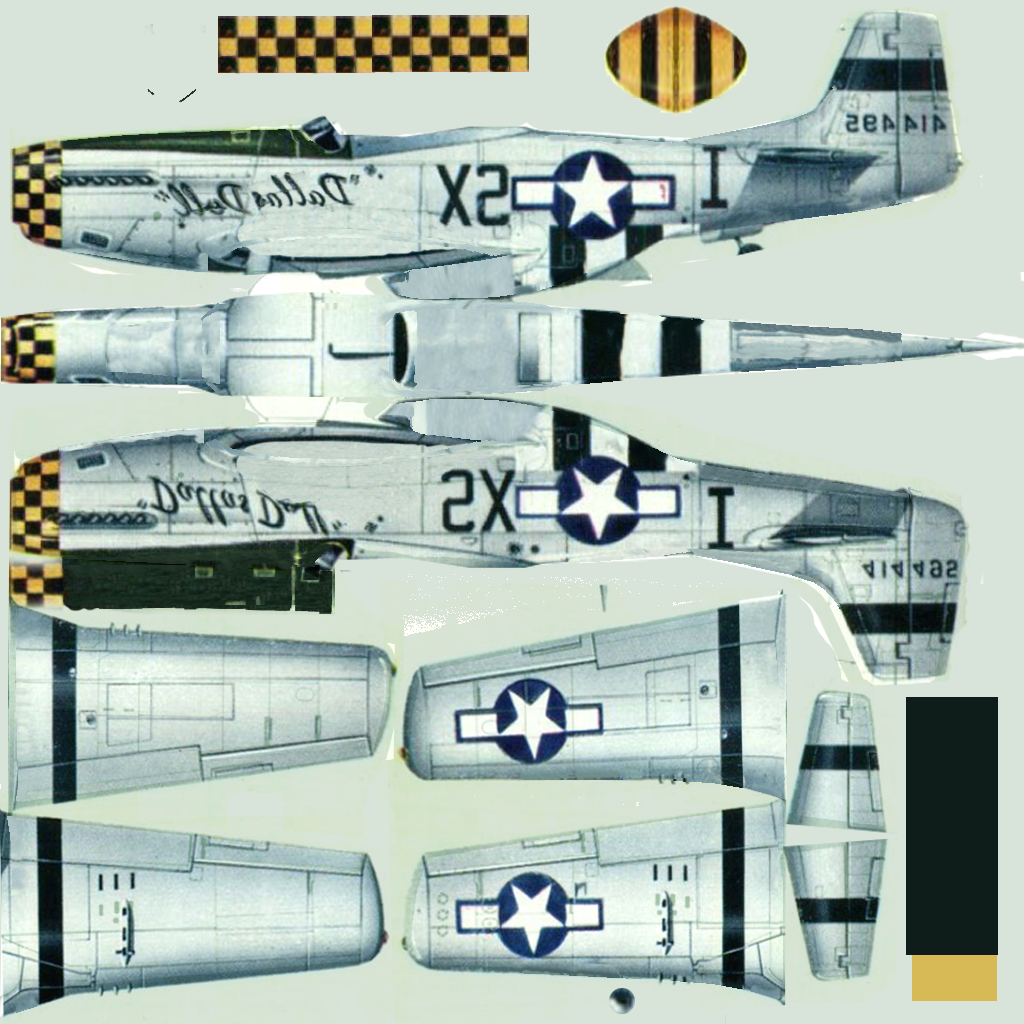
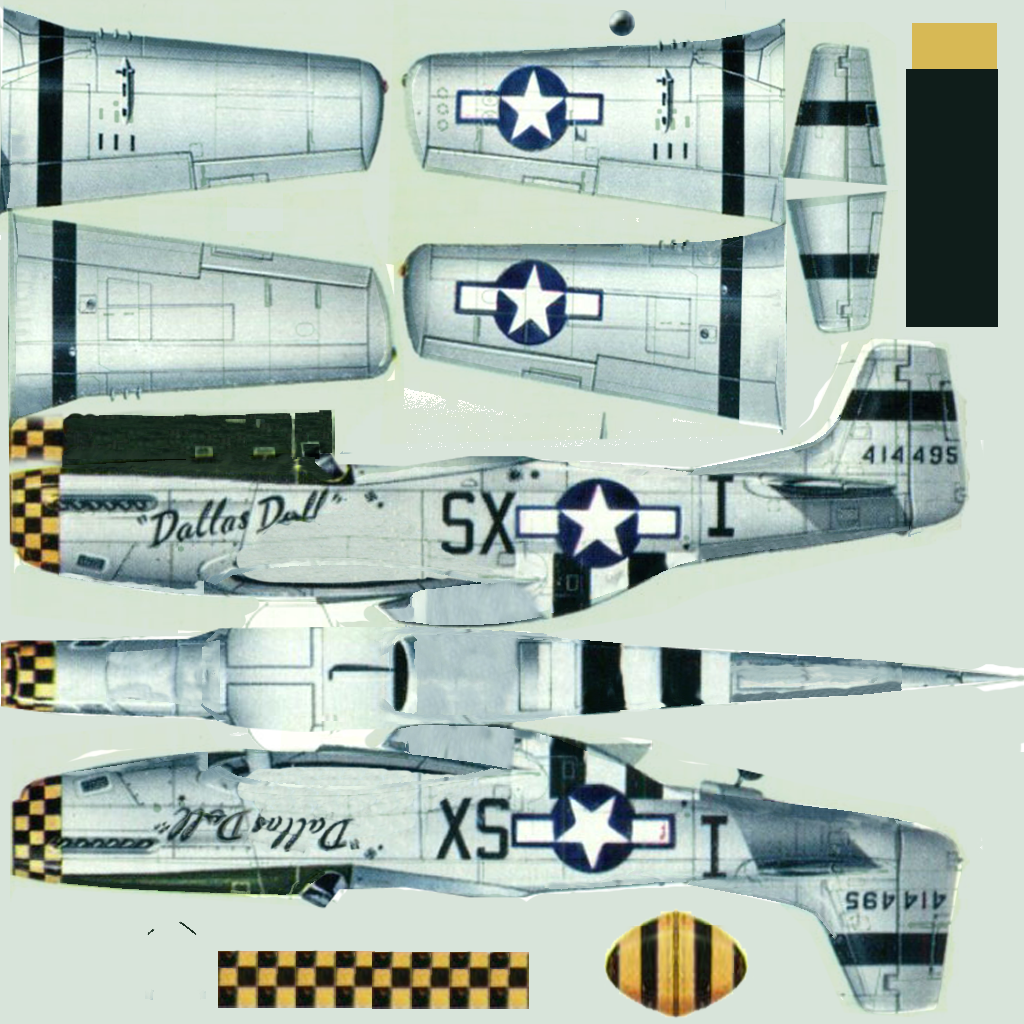
Load PNGs inverted
OpenGL's coordinate system is inverse compared to PNGs. That's why I'd had to
flip the PNG texture. It seems like the too coordinate systems are always
flipped thus, so just always load PNGs upside down. Other formats might support
multiple coordinate systems, so that's something to watch for.

diff --git a/texmap_png.c b/texmap_png.c
@@ -124,10 +124,11 @@ texmap_load_image_png(texmap_t *map, GLint level, int fd)
 	stride = png_get_rowbytes(read_struct, info_struct);
 	row_pointers = xcalloc(height, sizeof(void *));
 	result = xcalloc(height, stride);
-	row_pointers[0] = result;
+	row_pointers[height - 1] = result;
 
-	for (i = 1; i < height; i++)
-		row_pointers[i] = row_pointers[i - 1] + stride;
+	/* OpenGL likes its images "Upside down" from PNG's perspective */
+	for (i = height - 2; i > 0; i--)
+		row_pointers[i] = row_pointers[i + 1] + stride;
 
 	png_read_image(read_struct, row_pointers);
 	free(row_pointers);
